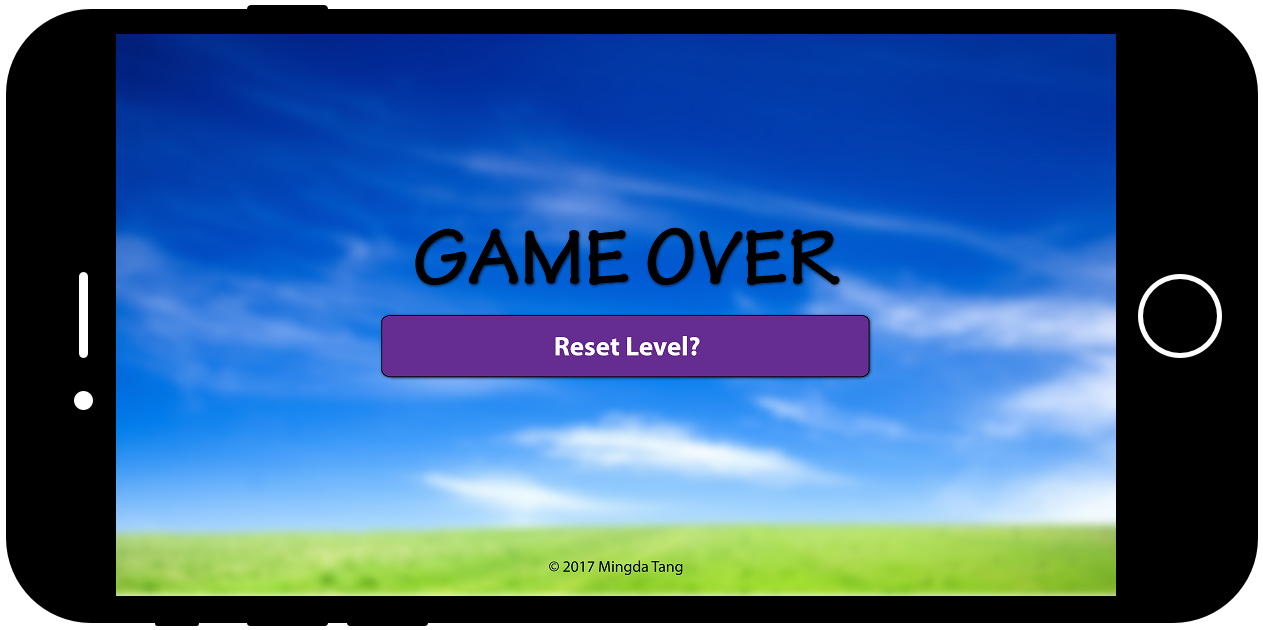
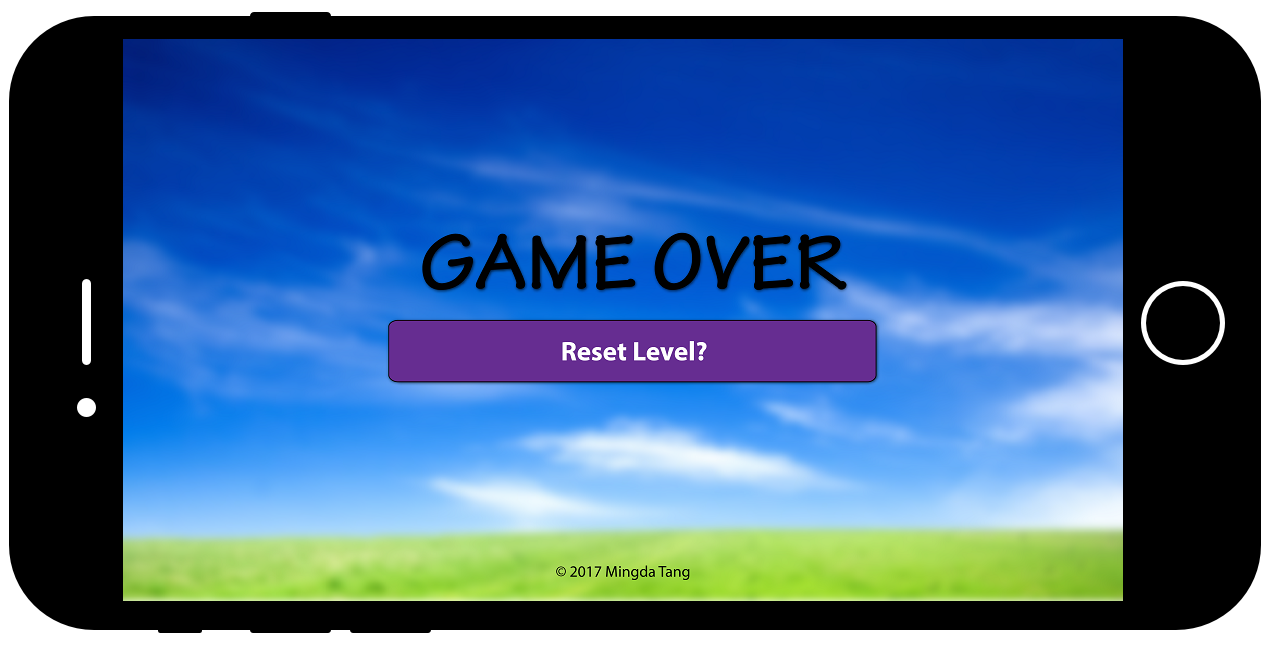
fixed sizes for mobile design images

diff --git a/design.html b/design.html
@@ -147,49 +147,49 @@
                                 <!-- Wrapper for slides -->
                                 <div class="carousel-inner" role="listbox">
                                     <div class="carousel-item active">
-                                        <img src="media/MobileGame-01.png" alt="Login screen">
+                                        <img class="mobilescreens" src="media/MobileGame-01.png" alt="Login screen">
                                         <p>Objective: To create a 2D sidescroller game with kid-friendly characters</p>
                                         <p>Login Screen</p>
                                         <p>Designed in Adobe Illustrator</p>
                                         <button type="button" class="btn btn-primary" onclick="window.open('media/MobileGame.pdf')">Vector PDF Link</button>
                                     </div>
                                     <div class="carousel-item">         
-                                        <img src="media/MobileGame-02.png" alt="Register screen"> 
+                                        <img class="mobilescreens" src="media/MobileGame-02.png" alt="Register screen"> 
                                         <p>Objective: To create a 2D sidescroller game with kid-friendly characters</p>
                                         <p>Register Screen</p>
                                         <p>Designed in Adobe Illustrator</p>
                                         <button type="button" class="btn btn-primary" onclick="window.open('media/MobileGame.pdf')">Vector PDF Link</button>
                                     </div>
                                     <div class="carousel-item">         
-                                        <img src="media/MobileGame-03.png" alt="Forgot password screen"> 
+                                        <img class="mobilescreens" src="media/MobileGame-03.png" alt="Forgot password screen"> 
                                         <p>Objective: To create a 2D sidescroller game with kid-friendly characters</p>
                                         <p>Forgot Password Screen</p>
                                         <p>Designed in Adobe Illustrator</p>
                                         <button type="button" class="btn btn-primary" onclick="window.open('media/MobileGame.pdf')">Vector PDF Link</button>
                                     </div>
                                     <div class="carousel-item">         
-                                        <img src="media/MobileGame-04.png" alt="Welcome screen">
+                                        <img class="mobilescreens" src="media/MobileGame-04.png" alt="Welcome screen">
                                         <p>Objective: To create a 2D sidescroller game with kid-friendly characters</p>
                                         <p>Welcome Screen</p>
                                         <p>Designed in Adobe Illustrator</p>
                                         <button type="button" class="btn btn-primary" onclick="window.open('media/MobileGame.pdf')">Vector PDF Link</button>
                                     </div>
                                     <div class="carousel-item">         
-                                        <img src="media/MobileGame-05.png" alt="Character Select screen"> 
+                                        <img class="mobilescreens" src="media/MobileGame-05.png" alt="Character Select screen"> 
                                         <p>Objective: To create a 2D sidescroller game with kid-friendly characters</p>
                                         <p>Character Select Screen</p>
                                         <p>Designed in Adobe Illustrator</p>
                                         <button type="button" class="btn btn-primary" onclick="window.open('media/MobileGame.pdf')">Vector PDF Link</button>
                                     </div>
                                     <div class="carousel-item">         
-                                        <img src="media/MobileGame-06.png" alt="Loading screen"> 
+                                        <img class="mobilescreens" src="media/MobileGame-06.png" alt="Loading screen"> 
                                         <p>Objective: To create a 2D sidescroller game with kid-friendly characters</p>
                                         <p>Loading Screen</p>
                                         <p>Designed in Adobe Illustrator</p>
                                         <button type="button" class="btn btn-primary" onclick="window.open('media/MobileGame.pdf')">Vector PDF Link</button>
                                     </div>
                                     <div class="carousel-item">         
-                                        <img src="media/MobileGame-07.png" alt="In-game menu screen"> 
+                                        <img src="media/MobileGame-07.png" alt="In-game screen"> 
                                         <p>Objective: To create a 2D sidescroller game with kid-friendly characters</p>
                                         <p>In-Game Screen</p>
                                         <p>Designed in Adobe Illustrator</p>

diff --git a/css/style.css b/css/style.css
@@ -366,3 +366,7 @@ footer.page-footer {
     color:white;
     border-radius:50px;
 }
+
+.mobilescreens{
+    width:50%;
+}
